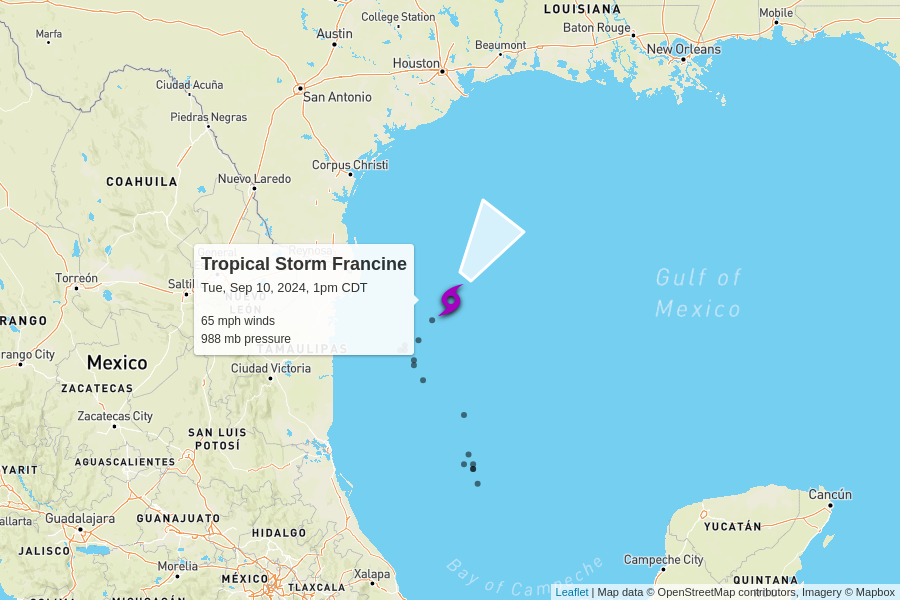
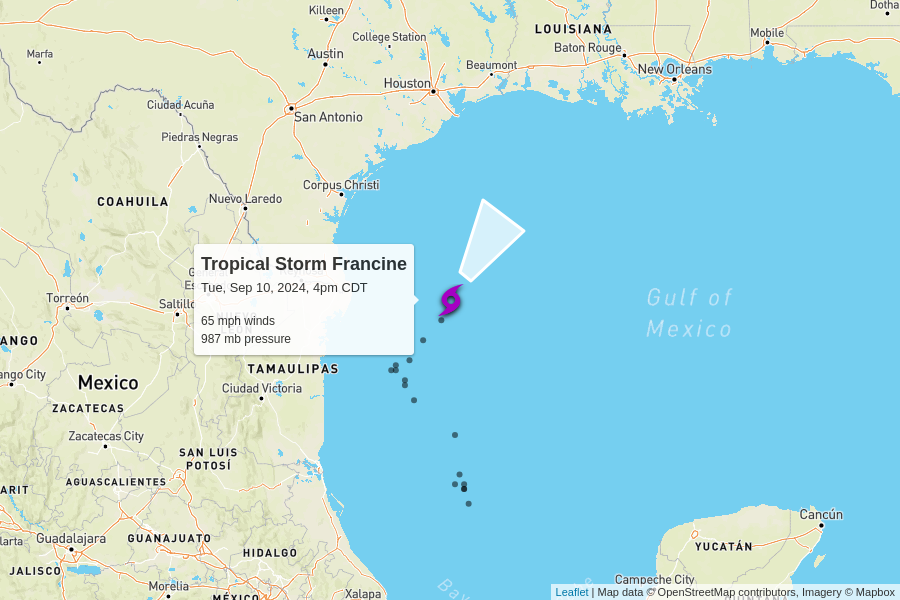
automatic update

diff --git a/docs/index.html b/docs/index.html
@@ -102,7 +102,7 @@
         <td colspan="6" class="storm category-0" >
           <h2>
             Tropical Storm Francine
-            <p class="updated">last updated <span data-time>2024-09-10T18:00:00.000Z</span></p>
+            <p class="updated">last updated <span data-time>2024-09-10T21:00:00.000Z</span></p>
           </h2>
         </td>
       </tr>
@@ -118,9 +118,9 @@
       <tr>
         <td class="spacer"></td>
         <td>65 mph<br>0 mph since last update</td>
-        <td>988 mb<br>0 mb since last update</td>
+        <td>987 mb<br>-1 mb since last update</td>
         <td>
-          9 mph to the northeast
+          10 mph to the northeast
           <br/>
           <span style="display: inline-block; font-size: 1.5em; transform: rotate(35deg);">↑</span>
         </td>
